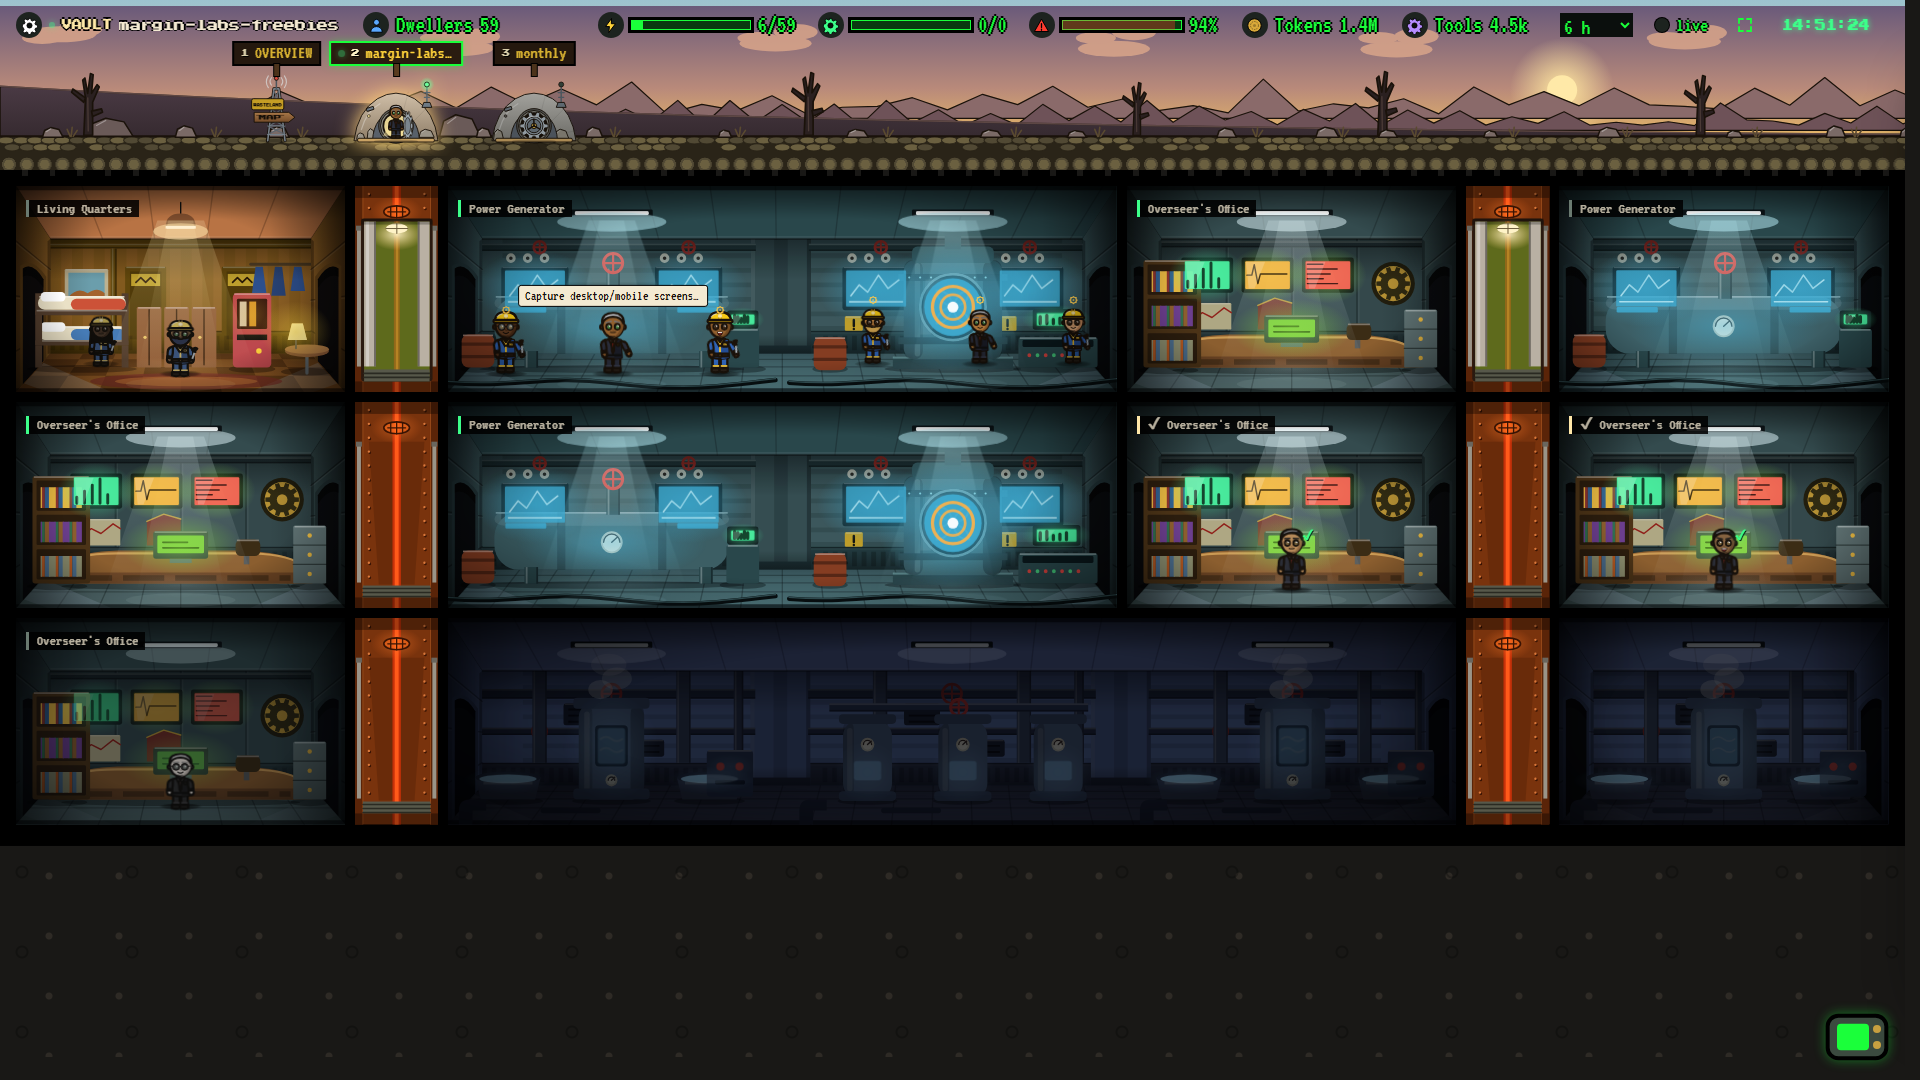
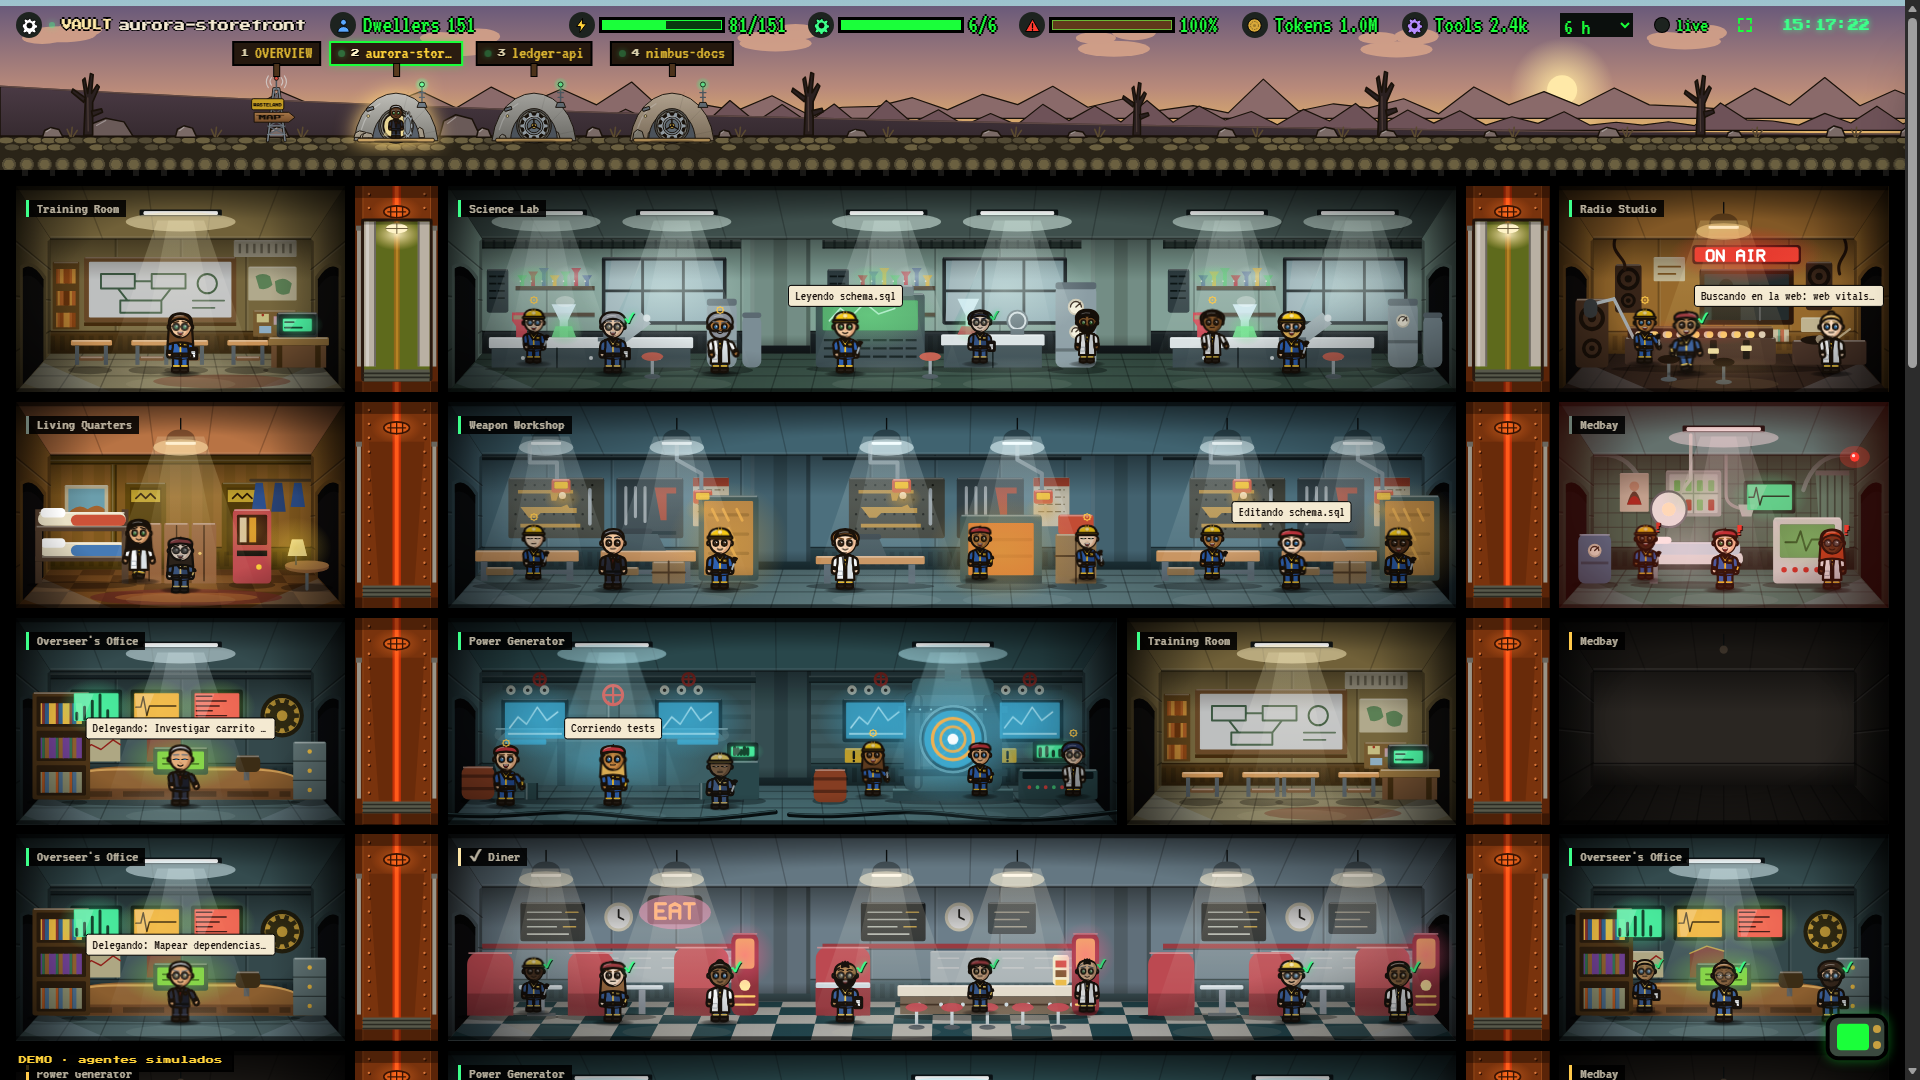
Agent Vault: live demo link and demo screenshot

diff --git a/my-portfolio/src/data/portfolio.ts b/my-portfolio/src/data/portfolio.ts
@@ -340,8 +340,9 @@ export const projects: Project[] = [
   {
     id: '27',
     title: 'Agent Vault - Fallout-Style Monitor for AI Coding Agents',
-    description: 'A local, always-on monitor for AI coding agents (Claude Code and Codex), drawn as a faithful Fallout Shelter-style vault cross-section and built to live full-screen on a dedicated third monitor. Each project is a vault entrance, sessions, workflows and sub-agents are rooms, and agents are dwellers who walk and ride elevators to the room matching what they are doing. Private personal tool.',
+    description: 'A local, always-on monitor for AI coding agents (Claude Code and Codex), drawn as a faithful Fallout Shelter-style vault cross-section and built to live full-screen on a dedicated third monitor. Each project is a vault entrance, sessions, workflows and sub-agents are rooms, and agents are dwellers who walk and ride elevators to the room matching what they are doing. The live demo runs simulated projects and agents in a loop.',
     image: '/proyects/agentvault.png',
+    liveUrl: 'https://agent-vault-demo.vercel.app',
     technologies: ['Node.js', 'JavaScript', 'SVG', 'CSS', 'JSONL Parsing', 'Claude Code', 'Codex'],
     features: [
       'Agents move between rooms by activity: reading to Science Lab, editing to Weapon Workshop, commands and tests to Power Generator, web/MCP to Radio Studio, waiting to Living Quarters, done to Diner, failed to Medbay',
@@ -912,8 +913,9 @@ export const projectsEs: Project[] = [
   {
     id: '27',
     title: 'Agent Vault - Monitor estilo Fallout para Agentes de Código IA',
-    description: 'Un monitor local y siempre encendido para agentes de código con IA (Claude Code y Codex), dibujado como un corte transversal fiel de un refugio estilo Fallout Shelter y pensado para vivir a pantalla completa en un tercer monitor dedicado. Cada proyecto es una entrada al refugio, las sesiones, workflows y sub-agentes son salas, y los agentes son habitantes que caminan y usan ascensores hacia la sala que corresponde a lo que están haciendo. Herramienta personal privada.',
+    description: 'Un monitor local y siempre encendido para agentes de código con IA (Claude Code y Codex), dibujado como un corte transversal fiel de un refugio estilo Fallout Shelter y pensado para vivir a pantalla completa en un tercer monitor dedicado. Cada proyecto es una entrada al refugio, las sesiones, workflows y sub-agentes son salas, y los agentes son habitantes que caminan y usan ascensores hacia la sala que corresponde a lo que están haciendo. La demo online corre proyectos y agentes simulados en loop.',
     image: '/proyects/agentvault.png',
+    liveUrl: 'https://agent-vault-demo.vercel.app',
     technologies: ['Node.js', 'JavaScript', 'SVG', 'CSS', 'JSONL Parsing', 'Claude Code', 'Codex'],
     features: [
       'Los agentes se mueven entre salas según su actividad: leer al Laboratorio de Ciencias, editar al Taller de Armas, comandos y tests al Generador de Energía, web/MCP al Estudio de Radio, esperar a los Dormitorios, terminar al Comedor, fallar a la Enfermería',
